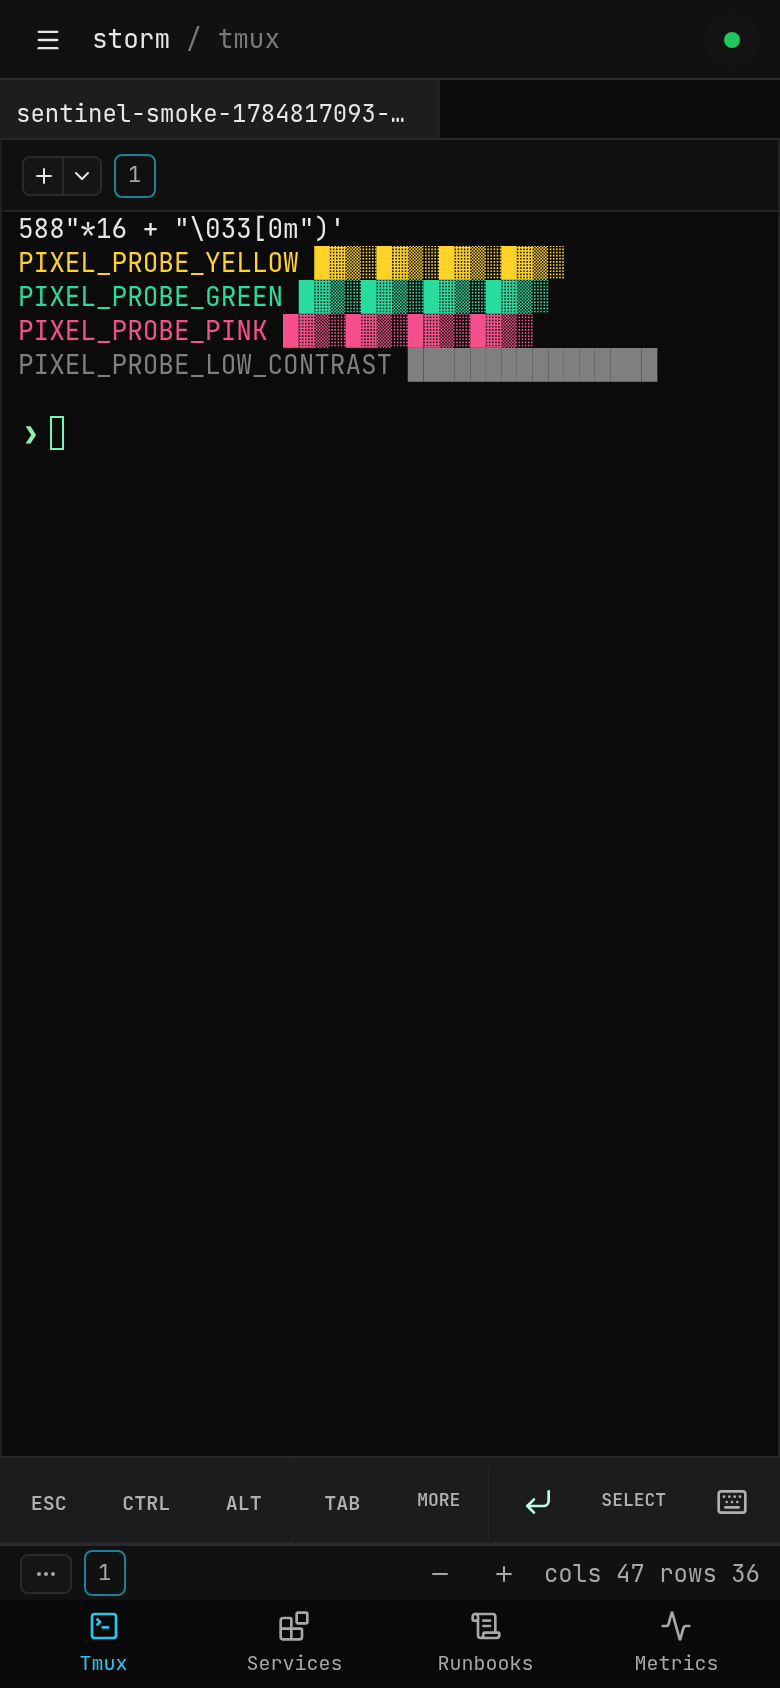
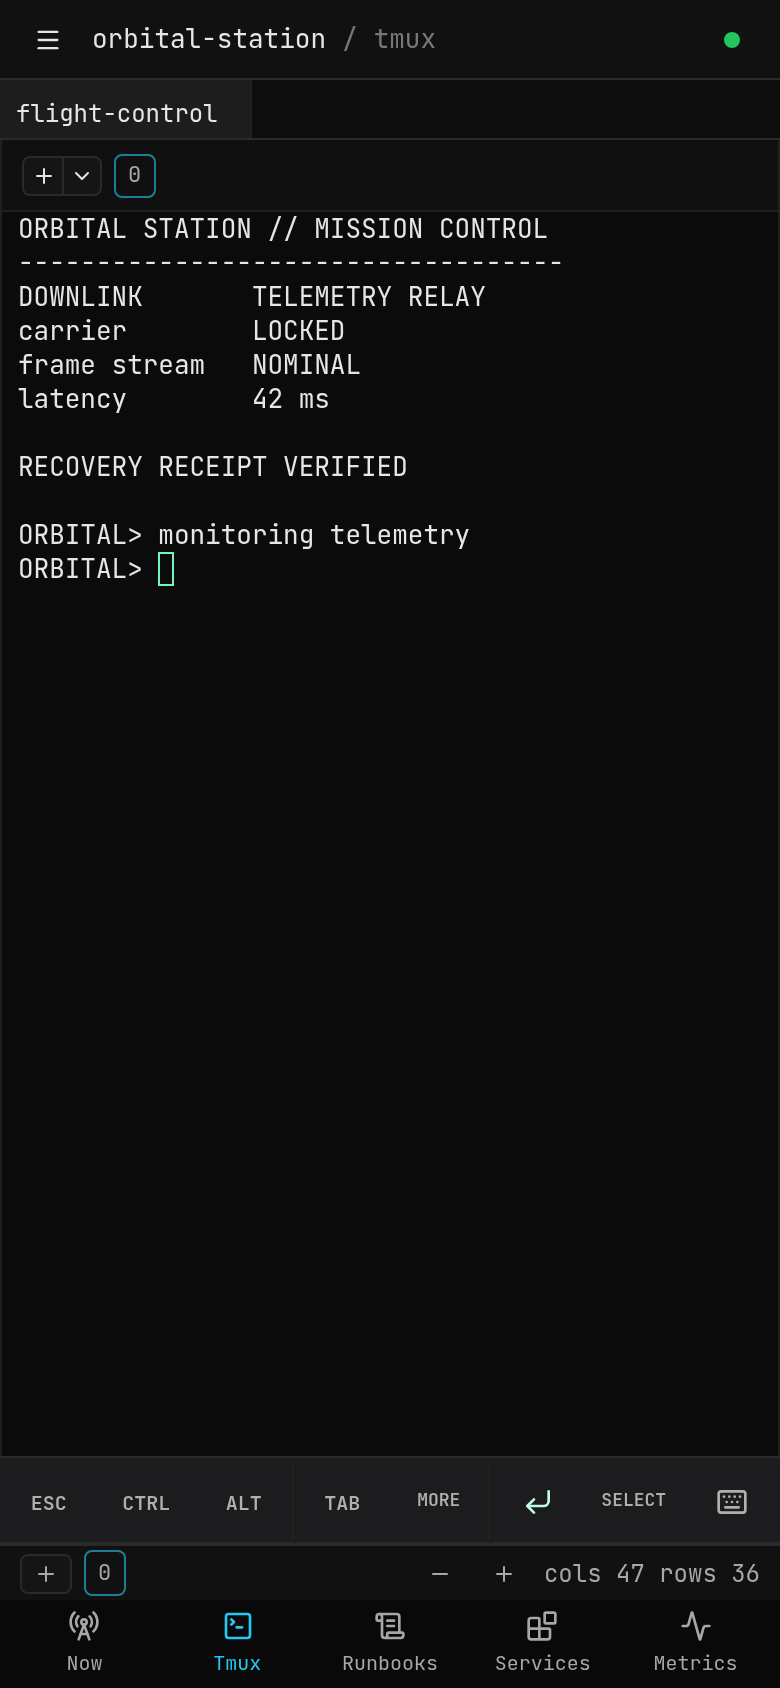
docs(showcase): publish the orbital workflow

diff --git a/README.md b/README.md
@@ -44,6 +44,35 @@ and the tools already present on your host.
 Now coordinates this loop; it is not a fifth execution domain, alert inbox,
 incident record, or recovery timeline.
 
+## One Loop, End to End
+
+The screens below come from the real Sentinel frontend and an isolated,
+disposable daemon running the fictitious **Orbital Station** workload. The
+names and telemetry are demonstration data; Sentinel does not provide
+satellite-specific behavior.
+
+Now starts with a bounded decision queue and sends each signal to its owner:
+
+![Now showing an at-risk fictitious Orbital Station host, with current source confidence and a bounded queue that hands service, pressure, approval, and live-session evidence to their owner modules](docs/assets/images/desktop-now-risk.png)
+
+Services owns the condition and the path from structured evidence to the
+relevant procedure or prior execution:
+
+![Services inspecting the failed fictitious telemetry relay, with structured condition and handoffs to the recovery procedure and latest execution receipt](docs/assets/images/desktop-services-diagnosis.png)
+
+Runbooks keeps the accepted procedure, result, target, and current recheck
+together without confusing the historical receipt with present state:
+
+![Runbooks showing the immutable receipt for a successful fictitious telemetry recovery, alongside the procedure definition, approval boundary, and current target recheck](docs/assets/images/desktop-runbooks-receipt.png)
+
+Tmux remains the live workspace where the operator can continue daily work:
+
+![Tmux attached to an isolated flight-control session, with two live panes showing fictitious orbital telemetry and guidance context](docs/assets/images/desktop-tmux-mission-control.png)
+
+After current owner evidence is healthy, Now becomes calm again:
+
+![Now after the fictitious recovery, showing healthy posture, current source confidence, no pending decisions, and no work in flight](docs/assets/images/desktop-now-healthy.png)
+
 ## What Sentinel Owns
 
 ### Daily core

diff --git a/docs/assets/images/README.md b/docs/assets/images/README.md
@@ -1,0 +1,50 @@
+# Sentinel Documentation Showcase
+
+The eight showcase PNGs are reproducible captures of the real Sentinel
+frontend connected to a disposable local daemon. They tell one fictitious
+**Orbital Station** workflow from current risk, through owner diagnosis and an
+immutable execution receipt, to live Tmux work and a healthy return to Now.
+Sentinel has no satellite-specific behavior.
+
+## Canonical Assets
+
+- `desktop-now-risk.png`
+- `desktop-services-diagnosis.png`
+- `desktop-metrics-pressure.png`
+- `desktop-runbooks-receipt.png`
+- `desktop-tmux-mission-control.png`
+- `desktop-now-healthy.png`
+- `mobile-now.png`
+- `mobile-tmux.png`
+
+`showcase-manifest.tsv` records the route state, viewport, theme, scenario,
+source commit, and capture time for each image. `logo.png` is independent of
+the showcase.
+
+## Recapture
+
+From the repository root:
+
+```bash
+make docs-showcase
+make docs-showcase-check
+```
+
+The capture command builds the real frontend, starts an ephemeral loopback
+daemon, creates an isolated tmux server under a temporary `TMUX_TMPDIR`, and
+writes validated staging output to `.artifacts/docs-showcase/`. It unsets
+inherited `TMUX` and `TMUX_PANE`, verifies the isolated socket path before
+arming cleanup, and never contacts the user's default tmux server or installed
+Sentinel service.
+
+Inspect all eight staged images at native resolution before replacing the
+canonical files in this directory. Publish the complete series together so
+the manifest and temporal story remain coherent.
+
+## Privacy Contract
+
+The fixture may use only the vocabulary defined by the Orbital Station
+scenario. The automated check rejects host paths, the runtime user and
+hostname, credentials, local network identifiers, non-reserved IP addresses,
+and PID-shaped process data. A passing OCR check supplements but does not
+replace native visual inspection.

diff --git a/docs/features/now.md b/docs/features/now.md
@@ -16,6 +16,11 @@ Now composes Services, Metrics, Runbooks, and Tmux concurrently. Partial failure
 preserves healthy owner evidence and identifies the source whose freshness
 could not be confirmed.
 
+<img src="assets/images/desktop-now-risk.png" alt="Now showing an at-risk fictitious Orbital Station host, current evidence confidence, three operator decisions, and typed handoffs to Services, Metrics, Runbooks, and Tmux" />
+
+The fictitious Orbital Station data makes the handoffs easy to inspect without
+exposing a real host. Sentinel has no satellite-specific behavior.
+
 ## Posture and Confidence
 
 Posture derives from current Services and Metrics evidence:
@@ -74,6 +79,11 @@ HTTP provides the initial composition. Existing owner events invalidate Now;
 there is no independent `now.updated` event or periodic Now collector. If the
 shared event channel disconnects while a snapshot remains visible, current
 source labels are presented as stale until a successful refresh.
+
+<img src="assets/images/desktop-now-healthy.png" alt="Now after the fictitious Orbital Station recovery, showing healthy posture, current source confidence, an empty decision queue, and no work in flight" />
+
+The second frame is the return point: historical proof remains with Runbooks,
+while current owner evidence determines whether Now is calm.
 
 ## Boundary
 

diff --git a/docs/features/mobile-pwa.md b/docs/features/mobile-pwa.md
@@ -17,6 +17,13 @@ It is the same operational workspace at a smaller viewport, not a terminal-only
 mobile mode. Now remains the entry and return point; each owner keeps its normal
 route and responsibility.
 
+<p align="center">
+  <img src="assets/images/mobile-now.png" alt="Mobile Now showing the at-risk fictitious Orbital Station workload, current owner confidence, a bounded decision queue, and the five-destination bottom navigation" width="390" />
+</p>
+
+The Orbital Station workload is fictitious showcase data captured from the
+real mobile shell; Sentinel has no satellite-specific behavior.
+
 ## PWA Support
 
 - Manifest: `/manifest.webmanifest`
@@ -37,6 +44,13 @@ Service worker caches app shell and static assets.
 This keeps UI shell resilient without caching live terminal data paths.
 
 ## Mobile Terminal UX
+
+<p align="center">
+  <img src="assets/images/mobile-tmux.png" alt="Mobile Tmux attached to one isolated flight-control pane, with legible fictitious orbital telemetry, touch controls, pane status, and the five-destination bottom navigation" width="390" />
+</p>
+
+This frame uses a disposable isolated tmux server and synthetic terminal
+output, not a real host session.
 
 Implemented improvements include:
 

diff --git a/docs/features/tmux-workspace.md b/docs/features/tmux-workspace.md
@@ -1,6 +1,9 @@
 # Tmux Workspace
 
-![Desktop tmux sessions](assets/images/desktop-tmux-sessions.png)
+<img src="assets/images/desktop-tmux-mission-control.png" alt="Tmux attached to an isolated flight-control session, with two real panes showing fictitious orbital telemetry, recovery evidence, and guidance context" />
+
+The Orbital Station terminal output is fictitious showcase data running in
+disposable tmux sessions; Sentinel has no satellite-specific behavior.
 
 Sentinel models tmux as:
 
@@ -21,8 +24,6 @@ The UI and API are built to keep this hierarchy consistent with realtime updates
 - Rename window and pane labels.
 - Session icon metadata.
 - Frequent directories endpoint (`GET /api/tmux/frequent-dirs`) powers quick-pick suggestions in the session creation dialog.
-
-![Desktop tmux fullscreen](assets/images/desktop-tmux-fullscreen.png)
 
 ## Realtime Interaction
 

diff --git a/docs/README.md b/docs/README.md
@@ -10,6 +10,14 @@ These docs are organized by intent. Sentinel starts in **Now**, then hands
 current evidence to one of four owners: Tmux, Services, Metrics, or Runbooks.
 Use the shortest path that answers the question in front of you.
 
+<p align="center">
+  <img src="assets/images/mobile-now.png" alt="Mobile Now showing the at-risk fictitious Orbital Station workload, current owner confidence, the bounded decision queue, and all five primary destinations" width="390" />
+</p>
+
+The image uses the fictitious **Orbital Station** showcase workload. It was
+captured from the real app against a disposable local daemon; it does not imply
+satellite-specific capabilities.
+
 ## Start
 
 - [Getting Started](/guide/getting-started.md) — install, validate the service,

diff --git a/docs/features/runbooks.md b/docs/features/runbooks.md
@@ -1,6 +1,9 @@
 # Runbooks
 
-![Desktop runbooks](assets/images/desktop-runbooks.png)
+<img src="assets/images/desktop-runbooks-receipt.png" alt="Runbooks showing the immutable receipt for a successful fictitious telemetry recovery, beside the accepted procedure, approval boundary, execution result, and current target recheck" />
+
+The Orbital Station procedure is fictitious showcase data captured from the
+real Runbooks UI; Sentinel has no satellite-specific behavior.
 
 Runbooks are executable operational procedures — sequences of steps that run against the host. Each execution is tracked as a job with step-level output persistence.
 

diff --git a/docs/features/metrics.md b/docs/features/metrics.md
@@ -1,6 +1,9 @@
 # Metrics
 
-![Desktop metrics](assets/images/desktop-metrics.png)
+<img src="assets/images/desktop-metrics-pressure.png" alt="Metrics focused on critical CPU pressure in the fictitious Orbital Station workload, with live saturation samples and no causal attribution" />
+
+The Orbital Station values are fictitious showcase samples captured from the
+real Metrics UI; Sentinel has no satellite-specific behavior.
 
 The Metrics page (`/metrics`) provides real-time system and runtime metrics for the host machine and the Sentinel process. All data is collected locally by Sentinel with no external monitoring agents required.
 

diff --git a/docs/features/services.md b/docs/features/services.md
@@ -1,6 +1,9 @@
 # Services
 
-![Desktop services](assets/images/desktop-services.png)
+<img src="assets/images/desktop-services-diagnosis.png" alt="Services inspecting the failed fictitious telemetry relay, with structured condition, transition evidence, and handoffs to the owning recovery procedure and latest receipt" />
+
+The Orbital Station unit and telemetry are fictitious showcase data captured
+from the real Services UI; Sentinel has no satellite-specific behavior.
 
 Dedicated service management page at `/services`, one owner in the
 [Operational Loop](/features/operational-loop.md). Sentinel monitors and

diff --git a/docs/features/operational-loop.md b/docs/features/operational-loop.md
@@ -34,6 +34,11 @@ typed handoff, not shared ownership of the same state.
 6. **Return to Now.** Owner updates recompose the current picture. Resolved
    evidence leaves the decision queue.
 
+<img src="assets/images/desktop-runbooks-receipt.png" alt="Runbooks showing the immutable receipt for a successful fictitious telemetry recovery, with the accepted definition, target, result, and independent current-state recheck" />
+
+The fictitious Orbital Station receipt illustrates the boundary between action
+proof and current truth. Sentinel has no satellite-specific behavior.
+
 ```mermaid
 ---
 config:
